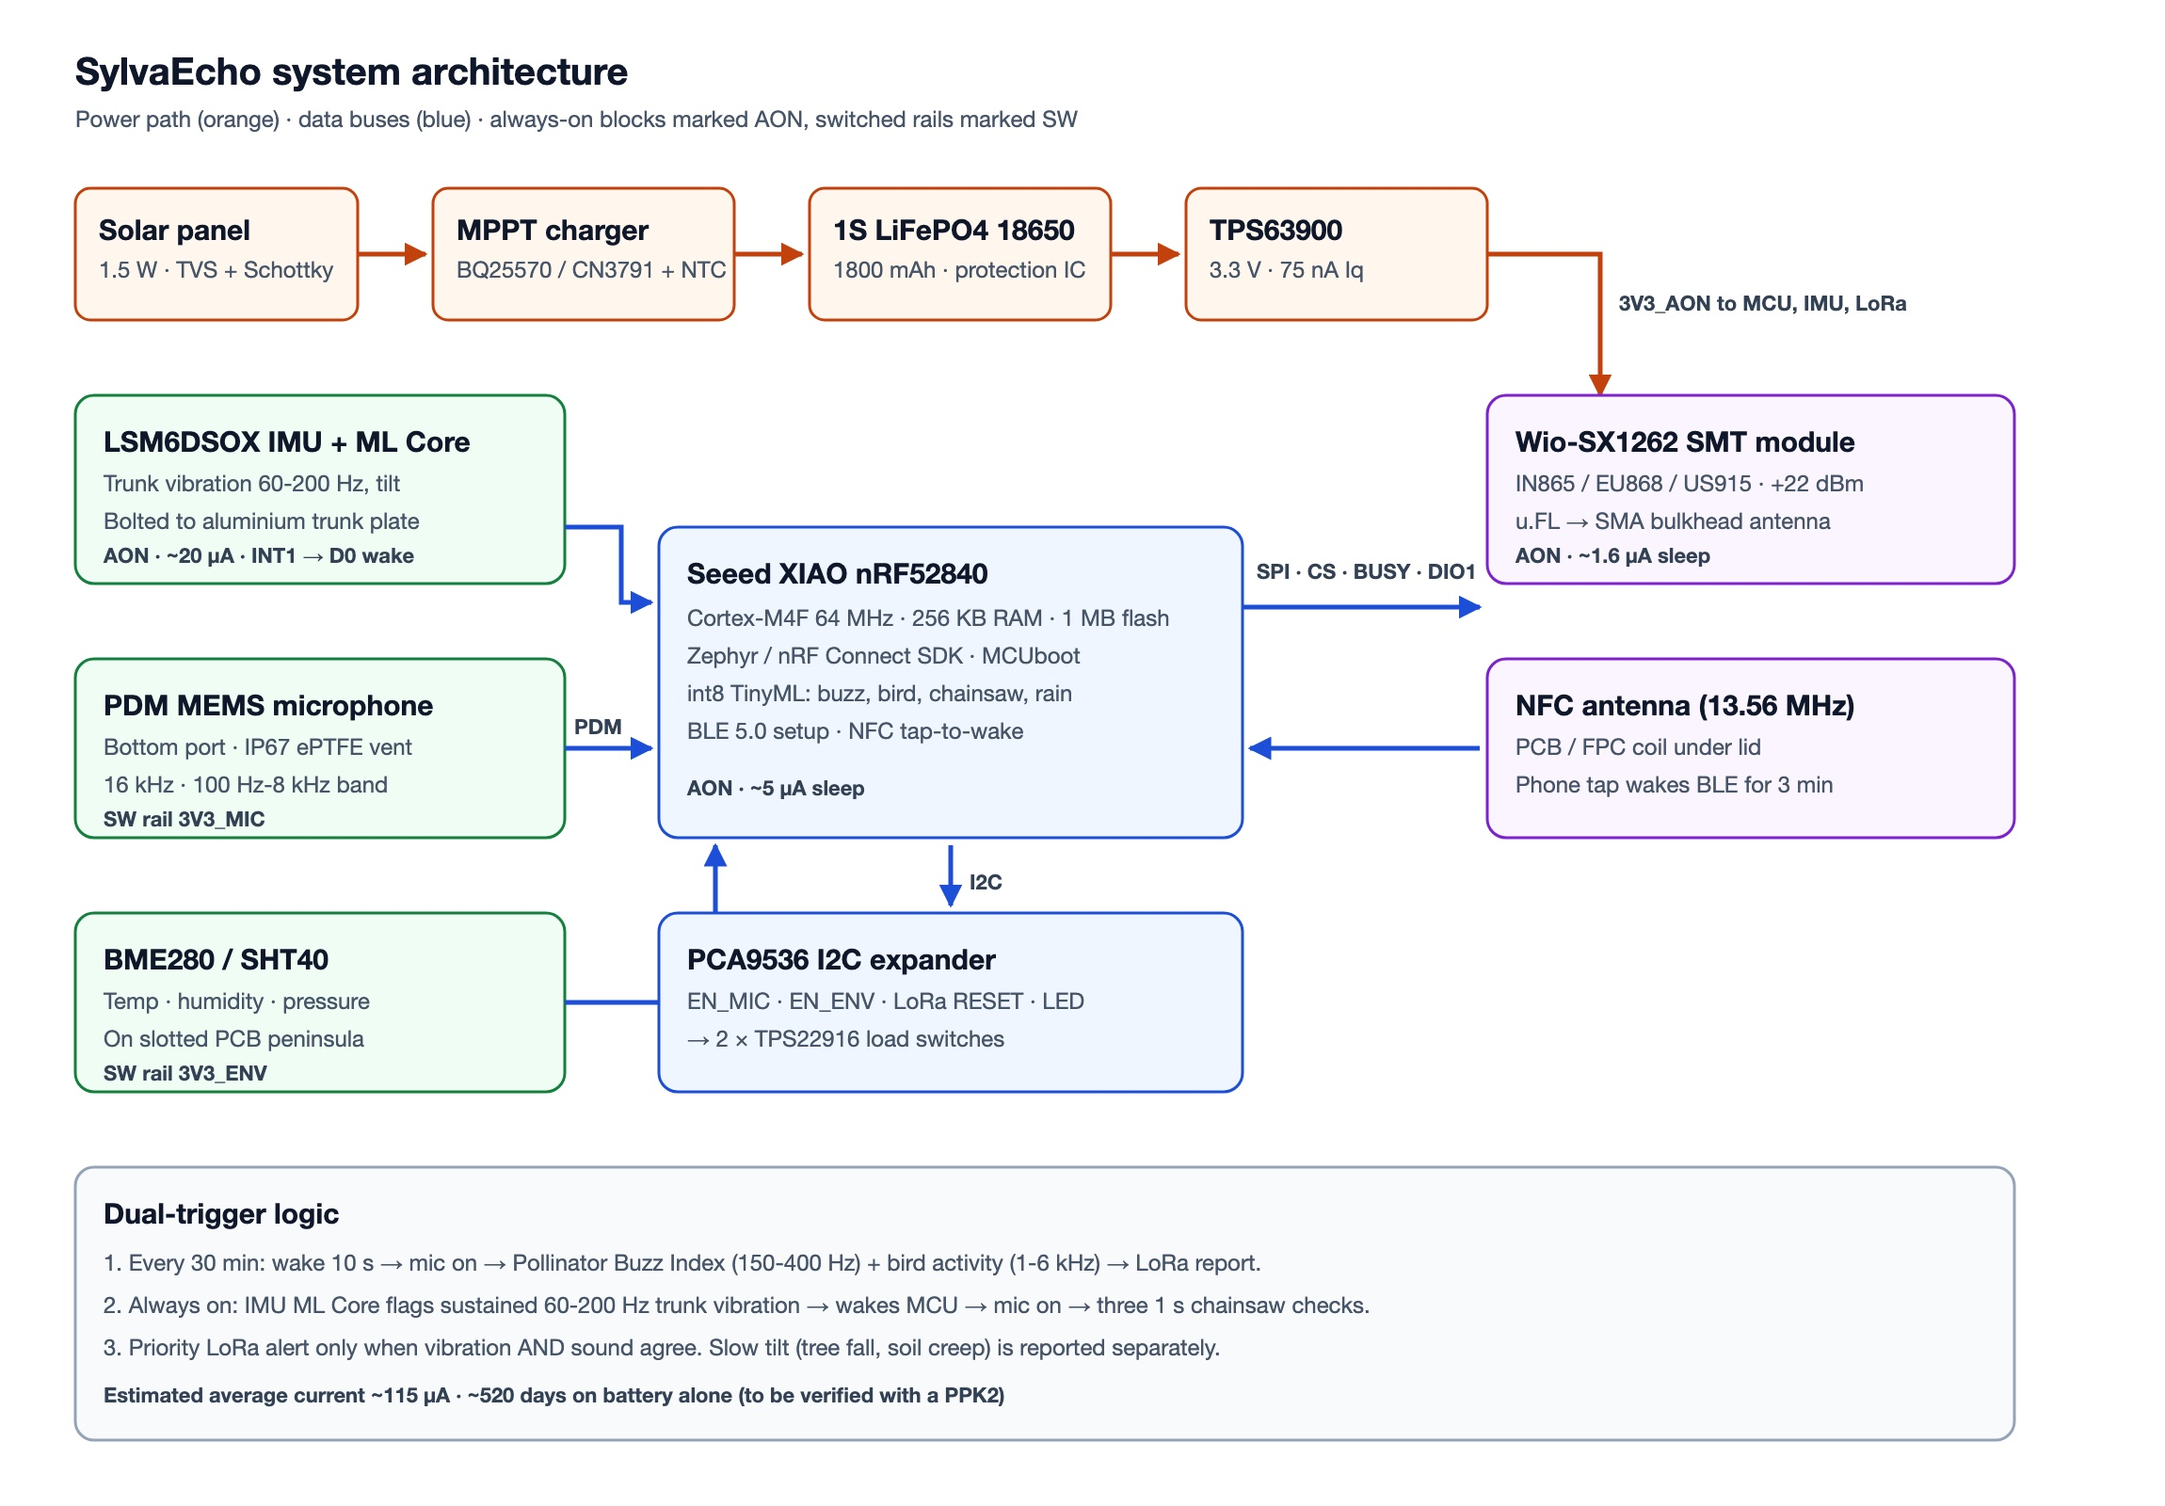
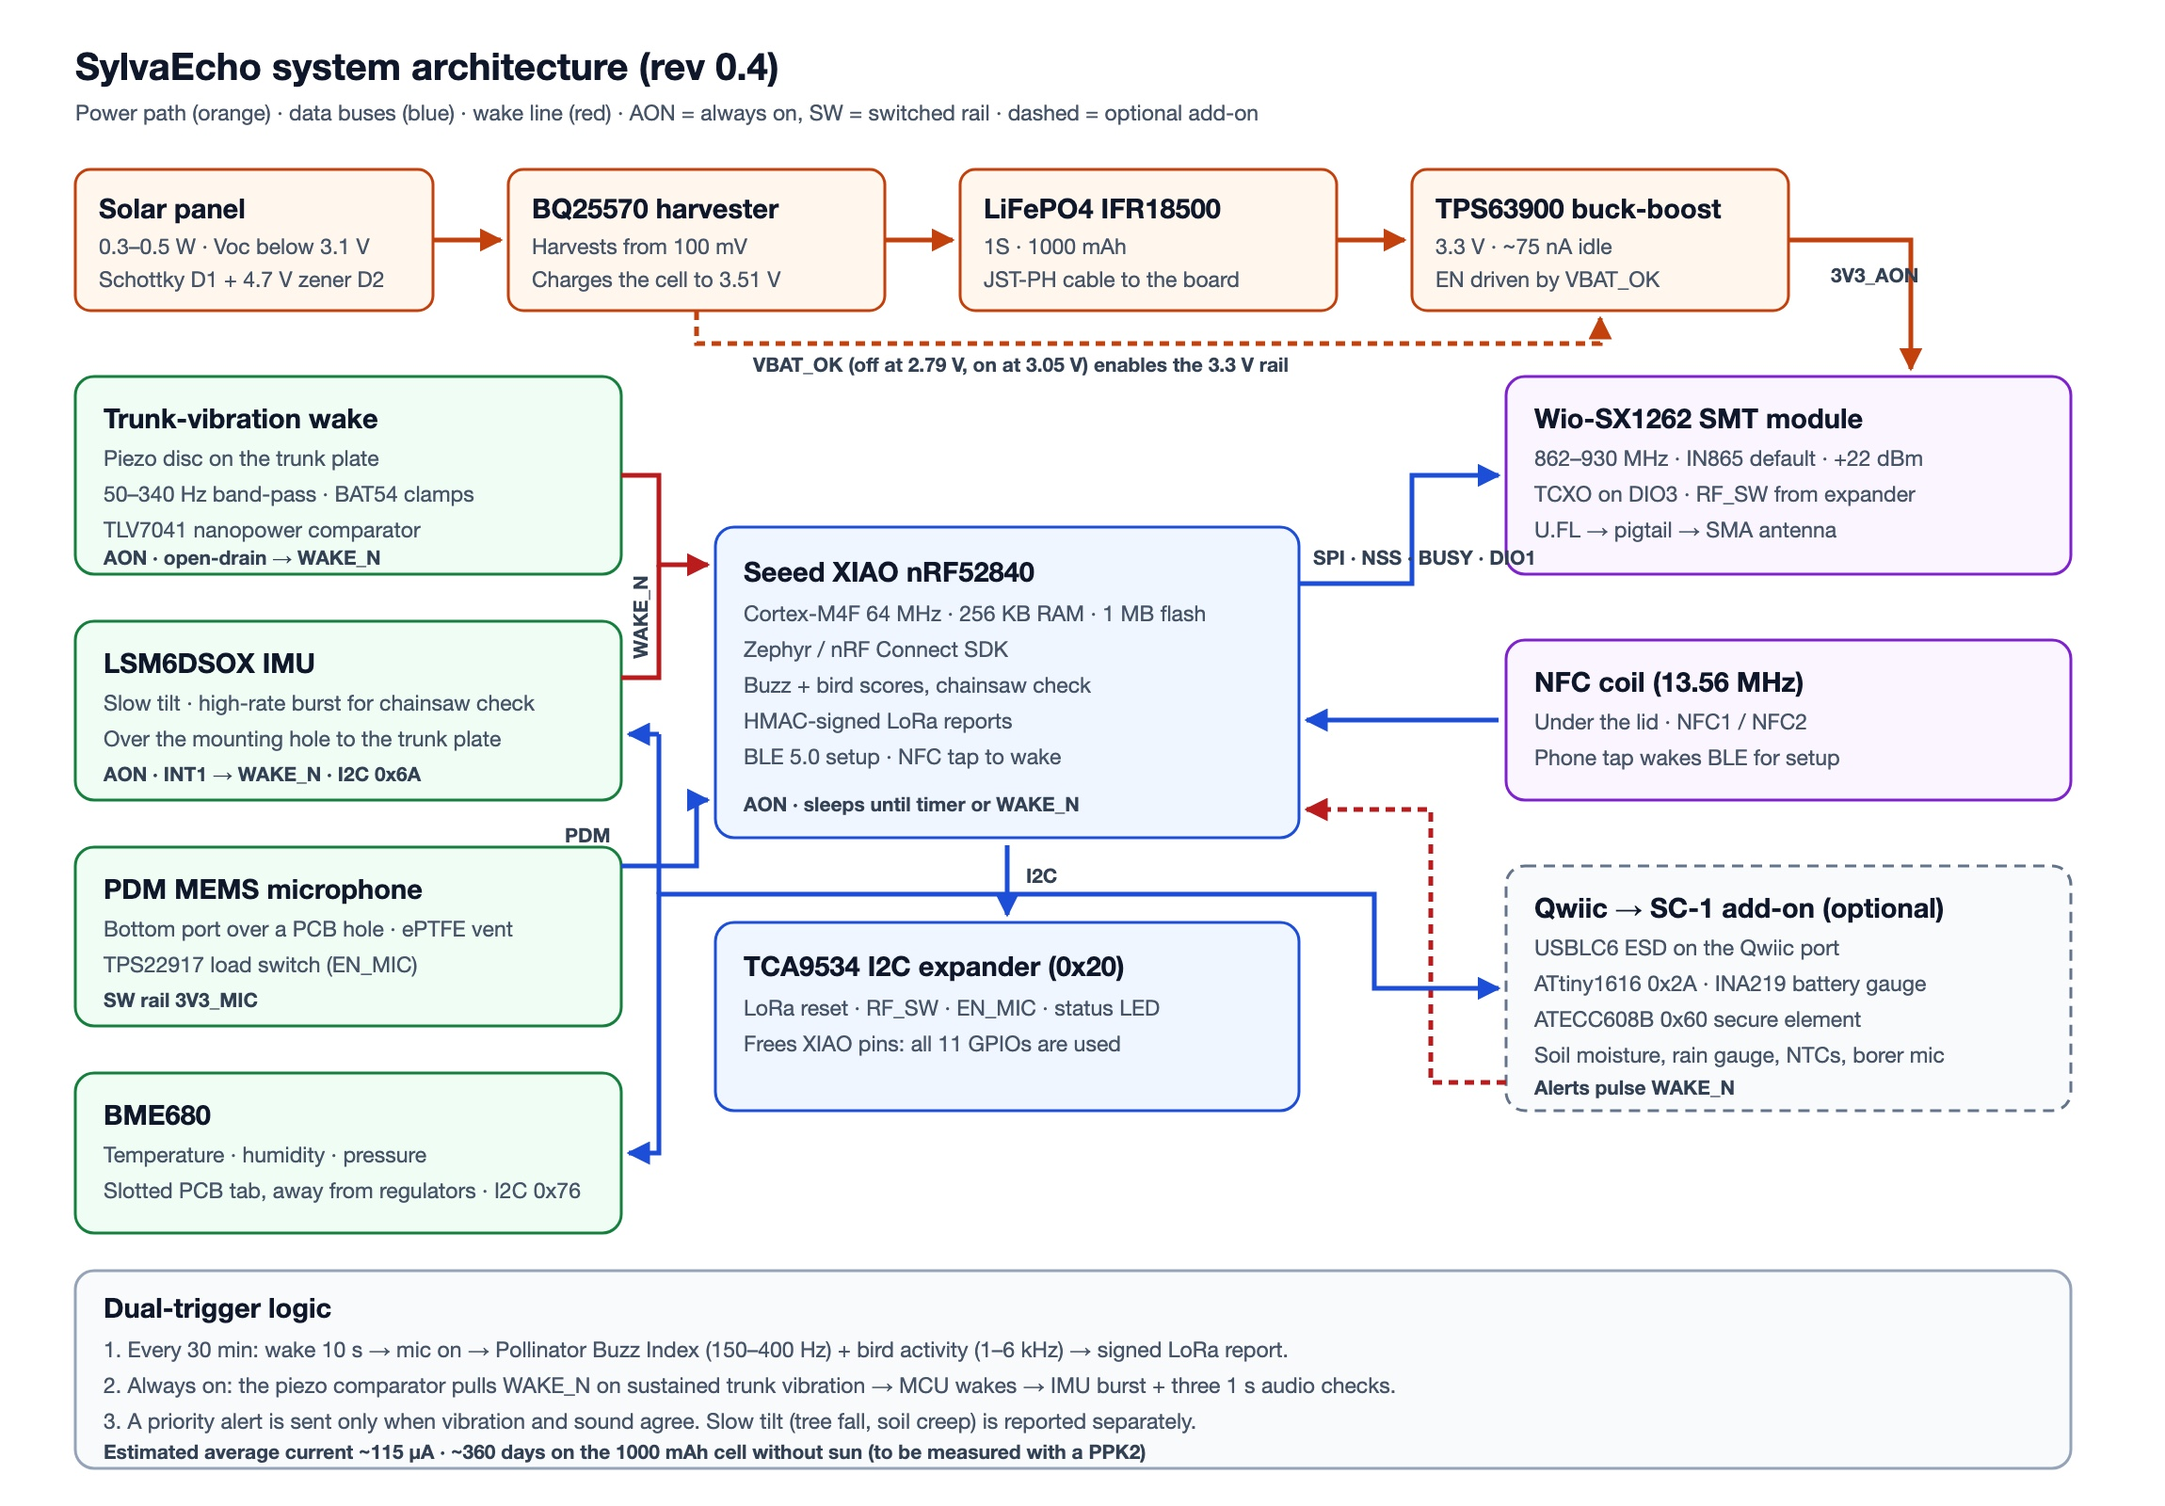
Redraw the block diagram with the rev 0.4 parts
BQ25570 only (3.51 V charge limit, VBAT_OK enables the 3.3 V rail),
IFR18500 1000 mAh cell, piezo + TLV7041 wake on WAKE_N, TCA9534 expander,
BME680 on the always-on rail, switched mic rail only, and the optional
SC-1 add-on on Qwiic.

diff --git a/Images/source/block_diagram.html b/Images/source/block_diagram.html
@@ -4,104 +4,138 @@ html,body{margin:0;width:2300px;height:1600px;background:#ffffff;font-family:"He
 </style></head><body>
 <svg width="2300" height="1600" viewBox="0 0 2300 1600" xmlns="http://www.w3.org/2000/svg" font-family="Helvetica Neue, Arial, sans-serif">
 <defs>
-  <marker id="a" viewBox="0 0 10 10" refX="9" refY="5" markerWidth="5" markerHeight="5" orient="auto"><path d="M0,0 L10,5 L0,10 z" fill="#334155"/></marker>
   <marker id="ar" viewBox="0 0 10 10" refX="9" refY="5" markerWidth="5" markerHeight="5" orient="auto"><path d="M0,0 L10,5 L0,10 z" fill="#c2410c"/></marker>
   <marker id="ab" viewBox="0 0 10 10" refX="9" refY="5" markerWidth="5" markerHeight="5" orient="auto"><path d="M0,0 L10,5 L0,10 z" fill="#1d4ed8"/></marker>
+  <marker id="ag" viewBox="0 0 10 10" refX="9" refY="5" markerWidth="5" markerHeight="5" orient="auto"><path d="M0,0 L10,5 L0,10 z" fill="#b91c1c"/></marker>
 </defs>
 <style>
  .t{font-size:40px;font-weight:700;fill:#0f172a}
- .h{font-size:30px;font-weight:700;fill:#0f172a}
- .s{font-size:24px;fill:#475569}
- .l{font-size:22px;fill:#334155;font-weight:600}
+ .h{font-size:29px;font-weight:700;fill:#0f172a}
+ .s{font-size:23px;fill:#475569}
+ .l{font-size:21px;fill:#334155;font-weight:600}
  .pw rect{fill:#fff7ed;stroke:#c2410c;stroke-width:3}
  .mc rect{fill:#eff6ff;stroke:#1d4ed8;stroke-width:3}
  .sn rect{fill:#f0fdf4;stroke:#15803d;stroke-width:3}
  .rf rect{fill:#faf5ff;stroke:#7e22ce;stroke-width:3}
+ .op rect{fill:#f8fafc;stroke:#64748b;stroke-width:3;stroke-dasharray:12 8}
 </style>
-<text x="80" y="90" class="t">SylvaEcho system architecture</text>
-<text x="80" y="135" class="s">Power path (orange) · data buses (blue) · always-on blocks marked AON, switched rails marked SW</text>
+<text x="80" y="85" class="t">SylvaEcho system architecture (rev 0.4)</text>
+<text x="80" y="128" class="s">Power path (orange) · data buses (blue) · wake line (red) · AON = always on, SW = switched rail · dashed = optional add-on</text>
 
 <!-- power chain -->
 <g class="pw">
-  <rect x="80" y="200" width="300" height="140" rx="16"/>
-  <rect x="460" y="200" width="320" height="140" rx="16"/>
-  <rect x="860" y="200" width="320" height="140" rx="16"/>
-  <rect x="1260" y="200" width="320" height="140" rx="16"/>
+  <rect x="80" y="180" width="380" height="150" rx="16"/>
+  <rect x="540" y="180" width="400" height="150" rx="16"/>
+  <rect x="1020" y="180" width="400" height="150" rx="16"/>
+  <rect x="1500" y="180" width="400" height="150" rx="16"/>
 </g>
-<text x="105" y="255" class="h">Solar panel</text><text x="105" y="295" class="s">1.5 W · TVS + Schottky</text>
-<text x="485" y="255" class="h">MPPT charger</text><text x="485" y="295" class="s">BQ25570 / CN3791 + NTC</text>
-<text x="885" y="255" class="h">1S LiFePO4 18650</text><text x="885" y="295" class="s">1800 mAh · protection IC</text>
-<text x="1285" y="255" class="h">TPS63900</text><text x="1285" y="295" class="s">3.3 V · 75 nA Iq</text>
+<text x="105" y="232" class="h">Solar panel</text><text x="105" y="270" class="s">0.3–0.5 W · Voc below 3.1 V</text><text x="105" y="305" class="s">Schottky D1 + 4.7 V zener D2</text>
+<text x="565" y="232" class="h">BQ25570 harvester</text><text x="565" y="270" class="s">Harvests from 100 mV</text><text x="565" y="305" class="s">Charges the cell to 3.51 V</text>
+<text x="1045" y="232" class="h">LiFePO4 IFR18500</text><text x="1045" y="270" class="s">1S · 1000 mAh</text><text x="1045" y="305" class="s">JST-PH cable to the board</text>
+<text x="1525" y="232" class="h">TPS63900 buck-boost</text><text x="1525" y="270" class="s">3.3 V · ~75 nA idle</text><text x="1525" y="305" class="s">EN driven by VBAT_OK</text>
 <g stroke="#c2410c" stroke-width="5" fill="none">
-  <path d="M380,270 H452" marker-end="url(#ar)"/><path d="M780,270 H852" marker-end="url(#ar)"/><path d="M1180,270 H1252" marker-end="url(#ar)"/>
-  <path d="M1580,270 H1700 V420" marker-end="url(#ar)"/>
+  <path d="M460,255 H532" marker-end="url(#ar)"/><path d="M940,255 H1012" marker-end="url(#ar)"/><path d="M1420,255 H1492" marker-end="url(#ar)"/>
+  <path d="M1900,255 H2030 V392" marker-end="url(#ar)"/>
+  <path d="M740,330 V365 H1700 V338" marker-end="url(#ar)" stroke-dasharray="10 7"/>
 </g>
-<text x="1720" y="330" class="l" fill="#c2410c">3V3_AON to MCU, IMU, LoRa</text>
+<text x="1945" y="300" class="l" fill="#c2410c">3V3_AON</text>
+<text x="800" y="395" class="l" fill="#c2410c">VBAT_OK (off at 2.79 V, on at 3.05 V) enables the 3.3 V rail</text>
 
 <!-- MCU -->
-<g class="mc"><rect x="700" y="560" width="620" height="330" rx="20"/></g>
-<text x="730" y="620" class="h">Seeed XIAO nRF52840</text>
-<text x="730" y="665" class="s">Cortex-M4F 64 MHz · 256 KB RAM · 1 MB flash</text>
-<text x="730" y="705" class="s">Zephyr / nRF Connect SDK · MCUboot</text>
-<text x="730" y="745" class="s">int8 TinyML: buzz, bird, chainsaw, rain</text>
-<text x="730" y="785" class="s">BLE 5.0 setup · NFC tap-to-wake</text>
-<text x="730" y="845" class="l">AON · ~5 µA sleep</text>
+<g class="mc"><rect x="760" y="560" width="620" height="330" rx="20"/></g>
+<text x="790" y="618" class="h">Seeed XIAO nRF52840</text>
+<text x="790" y="660" class="s">Cortex-M4F 64 MHz · 256 KB RAM · 1 MB flash</text>
+<text x="790" y="698" class="s">Zephyr / nRF Connect SDK</text>
+<text x="790" y="736" class="s">Buzz + bird scores, chainsaw check</text>
+<text x="790" y="774" class="s">HMAC-signed LoRa reports</text>
+<text x="790" y="812" class="s">BLE 5.0 setup · NFC tap to wake</text>
+<text x="790" y="862" class="l">AON · sleeps until timer or WAKE_N</text>
 
 <!-- LoRa -->
-<g class="rf"><rect x="1580" y="420" width="560" height="200" rx="20"/></g>
-<text x="1610" y="480" class="h">Wio-SX1262 SMT module</text>
-<text x="1610" y="522" class="s">IN865 / EU868 / US915 · +22 dBm</text>
-<text x="1610" y="562" class="s">u.FL → SMA bulkhead antenna</text>
-<text x="1610" y="598" class="l">AON · ~1.6 µA sleep</text>
-<path d="M1320,645 H1572" stroke="#1d4ed8" stroke-width="5" fill="none" marker-end="url(#ab)"/>
-<text x="1335" y="615" class="l">SPI · CS · BUSY · DIO1</text>
-
-<!-- IMU -->
-<g class="sn"><rect x="80" y="420" width="520" height="200" rx="20"/></g>
-<text x="110" y="480" class="h">LSM6DSOX IMU + ML Core</text>
-<text x="110" y="522" class="s">Trunk vibration 60-200 Hz, tilt</text>
-<text x="110" y="562" class="s">Bolted to aluminium trunk plate</text>
-<text x="110" y="598" class="l">AON · ~20 µA · INT1 → D0 wake</text>
-<path d="M600,560 H660 V640 H692" stroke="#1d4ed8" stroke-width="5" fill="none" marker-end="url(#ab)"/>
-
-<!-- Mic -->
-<g class="sn"><rect x="80" y="700" width="520" height="190" rx="20"/></g>
-<text x="110" y="760" class="h">PDM MEMS microphone</text>
-<text x="110" y="802" class="s">Bottom port · IP67 ePTFE vent</text>
-<text x="110" y="842" class="s">16 kHz · 100 Hz-8 kHz band</text>
-<text x="110" y="878" class="l">SW rail 3V3_MIC</text>
-<path d="M600,795 H692" stroke="#1d4ed8" stroke-width="5" fill="none" marker-end="url(#ab)"/>
-<text x="610" y="780" class="l">PDM</text>
-
-<!-- Env sensor -->
-<g class="sn"><rect x="80" y="970" width="520" height="190" rx="20"/></g>
-<text x="110" y="1030" class="h">BME280 / SHT40</text>
-<text x="110" y="1072" class="s">Temp · humidity · pressure</text>
-<text x="110" y="1112" class="s">On slotted PCB peninsula</text>
-<text x="110" y="1148" class="l">SW rail 3V3_ENV</text>
-<path d="M600,1065 H760 V898" stroke="#1d4ed8" stroke-width="5" fill="none" marker-end="url(#ab)"/>
-
-<!-- Expander + switches -->
-<g class="mc"><rect x="700" y="970" width="620" height="190" rx="20"/></g>
-<text x="730" y="1030" class="h">PCA9536 I2C expander</text>
-<text x="730" y="1072" class="s">EN_MIC · EN_ENV · LoRa RESET · LED</text>
-<text x="730" y="1112" class="s">→ 2 × TPS22916 load switches</text>
-<path d="M1010,898 V962" stroke="#1d4ed8" stroke-width="5" fill="none" marker-end="url(#ab)"/>
-<text x="1030" y="945" class="l">I2C</text>
+<g class="rf"><rect x="1600" y="400" width="600" height="210" rx="20"/></g>
+<text x="1630" y="455" class="h">Wio-SX1262 SMT module</text>
+<text x="1630" y="495" class="s">862–930 MHz · IN865 default · +22 dBm</text>
+<text x="1630" y="533" class="s">TCXO on DIO3 · RF_SW from expander</text>
+<text x="1630" y="571" class="s">U.FL → pigtail → SMA antenna</text>
+<path d="M1380,620 H1500 V505 H1592" stroke="#1d4ed8" stroke-width="5" fill="none" marker-end="url(#ab)"/>
+<text x="1395" y="600" class="l">SPI · NSS · BUSY · DIO1</text>
 
 <!-- NFC -->
-<g class="rf"><rect x="1580" y="700" width="560" height="190" rx="20"/></g>
-<text x="1610" y="760" class="h">NFC antenna (13.56 MHz)</text>
-<text x="1610" y="802" class="s">PCB / FPC coil under lid</text>
-<text x="1610" y="842" class="s">Phone tap wakes BLE for 3 min</text>
-<path d="M1572,795 H1328" stroke="#1d4ed8" stroke-width="5" fill="none" marker-end="url(#ab)"/>
+<g class="rf"><rect x="1600" y="680" width="600" height="170" rx="20"/></g>
+<text x="1630" y="735" class="h">NFC coil (13.56 MHz)</text>
+<text x="1630" y="775" class="s">Under the lid · NFC1 / NFC2</text>
+<text x="1630" y="813" class="s">Phone tap wakes BLE for setup</text>
+<path d="M1592,765 H1388" stroke="#1d4ed8" stroke-width="5" fill="none" marker-end="url(#ab)"/>
+
+<!-- Qwiic / SC-1 -->
+<g class="op"><rect x="1600" y="920" width="600" height="260" rx="20"/></g>
+<text x="1630" y="975" class="h">Qwiic → SC-1 add-on (optional)</text>
+<text x="1630" y="1015" class="s">USBLC6 ESD on the Qwiic port</text>
+<text x="1630" y="1053" class="s">ATtiny1616 0x2A · INA219 battery gauge</text>
+<text x="1630" y="1091" class="s">ATECC608B 0x60 secure element</text>
+<text x="1630" y="1129" class="s">Soil moisture, rain gauge, NTCs, borer mic</text>
+<text x="1630" y="1163" class="l">Alerts pulse WAKE_N</text>
+
+<!-- Piezo wake (AON) -->
+<g class="sn"><rect x="80" y="400" width="580" height="210" rx="20"/></g>
+<text x="110" y="455" class="h">Trunk-vibration wake</text>
+<text x="110" y="495" class="s">Piezo disc on the trunk plate</text>
+<text x="110" y="533" class="s">50–340 Hz band-pass · BAT54 clamps</text>
+<text x="110" y="571" class="s">TLV7041 nanopower comparator</text>
+<text x="110" y="600" class="l">AON · open-drain → WAKE_N</text>
+
+<!-- IMU -->
+<g class="sn"><rect x="80" y="660" width="580" height="190" rx="20"/></g>
+<text x="110" y="715" class="h">LSM6DSOX IMU</text>
+<text x="110" y="755" class="s">Slow tilt · high-rate burst for chainsaw check</text>
+<text x="110" y="793" class="s">Over the mounting hole to the trunk plate</text>
+<text x="110" y="830" class="l">AON · INT1 → WAKE_N · I2C 0x6A</text>
+
+<!-- WAKE_N line -->
+<g stroke="#b91c1c" stroke-width="5" fill="none">
+  <path d="M660,505 H700 V600 H752" marker-end="url(#ag)"/>
+  <path d="M660,720 H700 V600"/>
+  <path d="M1600,1150 H1520 V860 H1388" marker-end="url(#ag)" stroke-dasharray="10 7"/>
+</g>
+<text transform="translate(688,700) rotate(-90)" class="l" fill="#b91c1c">WAKE_N</text>
+
+<!-- Mic -->
+<g class="sn"><rect x="80" y="900" width="580" height="190" rx="20"/></g>
+<text x="110" y="955" class="h">PDM MEMS microphone</text>
+<text x="110" y="995" class="s">Bottom port over a PCB hole · ePTFE vent</text>
+<text x="110" y="1033" class="s">TPS22917 load switch (EN_MIC)</text>
+<text x="110" y="1070" class="l">SW rail 3V3_MIC</text>
+<path d="M660,920 H740 V850 H752" stroke="#1d4ed8" stroke-width="5" fill="none" marker-end="url(#ab)"/>
+<text x="600" y="895" class="l">PDM</text>
+
+<!-- Env sensor -->
+<g class="sn"><rect x="80" y="1140" width="580" height="170" rx="20"/></g>
+<text x="110" y="1195" class="h">BME680</text>
+<text x="110" y="1235" class="s">Temperature · humidity · pressure</text>
+<text x="110" y="1273" class="s">Slotted PCB tab, away from regulators · I2C 0x76</text>
+
+<!-- Expander -->
+<g class="mc"><rect x="760" y="980" width="620" height="200" rx="20"/></g>
+<text x="790" y="1037" class="h">TCA9534 I2C expander (0x20)</text>
+<text x="790" y="1079" class="s">LoRa reset · RF_SW · EN_MIC · status LED</text>
+<text x="790" y="1117" class="s">Frees XIAO pins: all 11 GPIOs are used</text>
+
+<!-- I2C bus -->
+<g stroke="#1d4ed8" stroke-width="5" fill="none">
+  <path d="M1070,898 V972" marker-end="url(#ab)"/>
+  <path d="M1070,950 H1460 V1050 H1592" marker-end="url(#ab)"/>
+  <path d="M1070,950 H700 V1225 H668" marker-end="url(#ab)"/>
+  <path d="M700,780 H668" marker-end="url(#ab)"/>
+  <path d="M700,950 V780"/>
+</g>
+<text x="1090" y="938" class="l">I2C</text>
 
 <!-- Logic -->
-<rect x="80" y="1240" width="2060" height="290" rx="20" fill="#f8fafc" stroke="#94a3b8" stroke-width="3"/>
-<text x="110" y="1300" class="h">Dual-trigger logic</text>
-<text x="110" y="1350" class="s">1. Every 30 min: wake 10 s → mic on → Pollinator Buzz Index (150-400 Hz) + bird activity (1-6 kHz) → LoRa report.</text>
-<text x="110" y="1395" class="s">2. Always on: IMU ML Core flags sustained 60-200 Hz trunk vibration → wakes MCU → mic on → three 1 s chainsaw checks.</text>
-<text x="110" y="1440" class="s">3. Priority LoRa alert only when vibration AND sound agree. Slow tilt (tree fall, soil creep) is reported separately.</text>
-<text x="110" y="1490" class="l">Estimated average current ~115 µA · ~520 days on battery alone (to be verified with a PPK2)</text>
+<rect x="80" y="1350" width="2120" height="210" rx="20" fill="#f8fafc" stroke="#94a3b8" stroke-width="3"/>
+<text x="110" y="1400" class="h">Dual-trigger logic</text>
+<text x="110" y="1442" class="s">1. Every 30 min: wake 10 s → mic on → Pollinator Buzz Index (150–400 Hz) + bird activity (1–6 kHz) → signed LoRa report.</text>
+<text x="110" y="1480" class="s">2. Always on: the piezo comparator pulls WAKE_N on sustained trunk vibration → MCU wakes → IMU burst + three 1 s audio checks.</text>
+<text x="110" y="1518" class="s">3. A priority alert is sent only when vibration and sound agree. Slow tilt (tree fall, soil creep) is reported separately.</text>
+<text x="110" y="1550" class="l">Estimated average current ~115 µA · ~360 days on the 1000 mAh cell without sun (to be measured with a PPK2)</text>
 </svg>
 </body></html>
